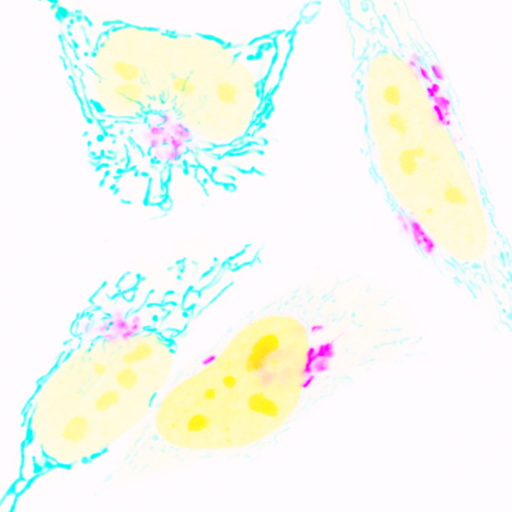
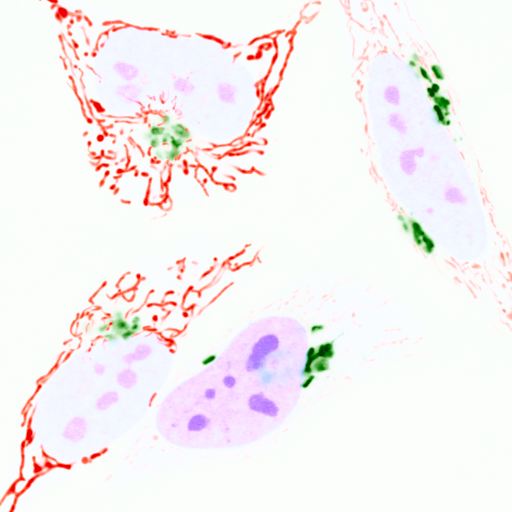
simultaneous original and inverted image

diff --git a/app.py b/app.py
@@ -1,4 +1,5 @@
 import numpy as np
+import cv2
 from skimage import color, util, io
 # import colorsys
 from PIL import Image, ImageOps
@@ -55,17 +56,19 @@ def server(input, output, session):
             elif input.cspace() == "lab":
                 lab_image = color.rgb2lab(image_data)
                 negative_lab_image = lab_image.copy()
-                negative_lab_image[:, :, 0] = 100 - negative_lab_image[:, :, 0] # range✅
+                negative_lab_image[:, :, 0] = 100 - negative_lab_image[:, :, 0] 
                 # negative_image = (negative_lab_image * 255).astype(np.uint8)
                 negative_image = color.lab2rgb(negative_lab_image)
         elif input.func() == 'bc':
-            print(image_data[1,1,:])
             negative_image = adjust_colors(image_data, input.bcolor())
-            print(image_data[1,1,:])
 
         # Save for render.image
-        io.imsave("test_results/small.png", util.img_as_ubyte(negative_image))
-        return {"src": "test_results/small.png", "width": "100%"}
+        io.imsave("test_results/inverted.png", util.img_as_ubyte(negative_image))
+        print('run once')
+        negative_image = io.imread('test_results/inverted.png')
+        concatenated_image = cv2.hconcat([image_data,negative_image])
+        io.imsave("test_results/combin-inverted.png", util.img_as_ubyte(concatenated_image))
+        return {"src": "test_results/combin-inverted.png", "width": "100%"}
 
 
 app = App(app_ui, server)

diff --git a/color_change.py b/color_change.py
@@ -19,9 +19,10 @@ def adjust_colors(img_array, color='white'):
     mask = np.abs(np.max(img_array, axis=-1) - np.min(img_array, axis=-1)) <= 20
 
     # Set those pixels to the desired color
-    img_array[mask] = color_map[color]
+    new_img_array = img_array.copy()
+    new_img_array[mask] = color_map[color]
 
-    return img_array
+    return new_img_array
 
 
 '''

diff --git a/tohsl.py b/tohsl.py
@@ -5,7 +5,6 @@ def rgb_to_hsl(rgb_image):
     rgb_image = rgb_image.astype(float) / 255.0
     hsl_image = np.vectorize(colorsys.rgb_to_hls)(rgb_image[..., 0], rgb_image[..., 1], rgb_image[..., 2])
     hsl_image = np.stack(hsl_image, axis=-1)
-    print(hsl_image)
     return hsl_image
 
 def hsl_to_rgb(hsl_image):
